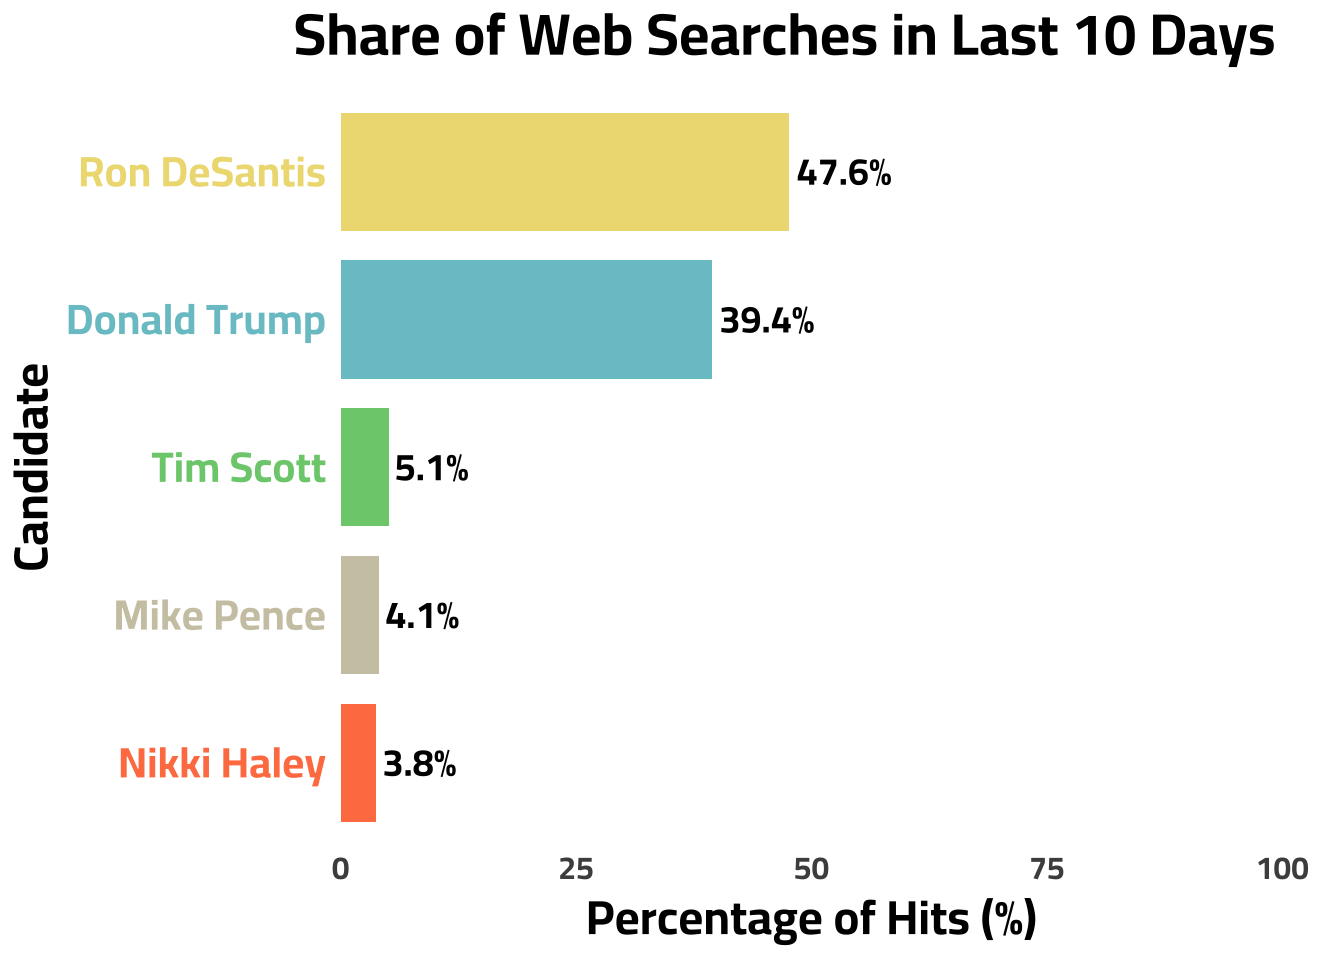
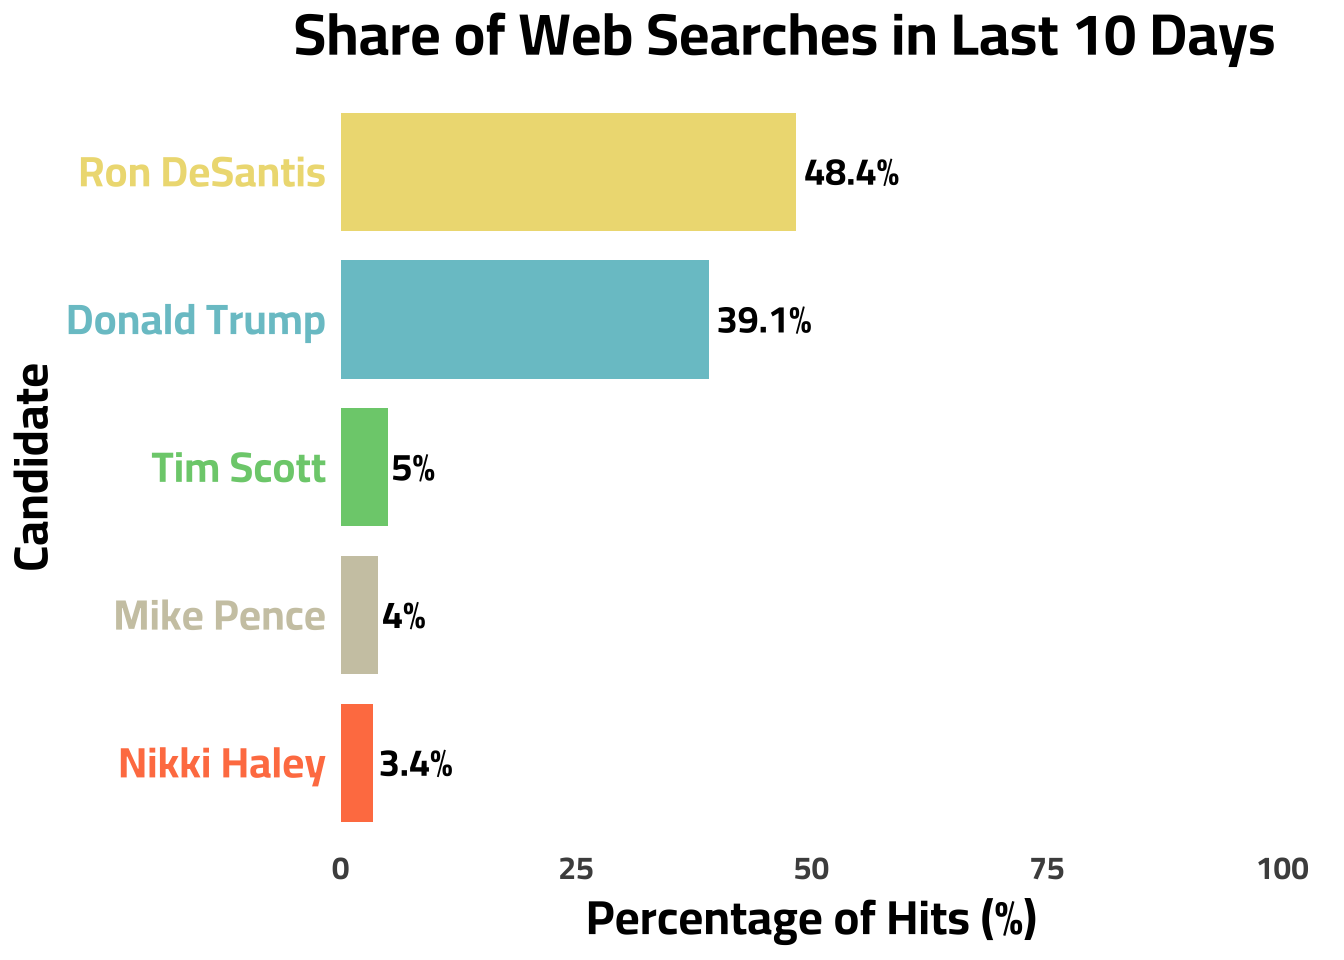
update cv 17.07.23-00:37:47

diff --git a/_site/posts/primary_stream/index.html b/_site/posts/primary_stream/index.html
@@ -181,7 +181,7 @@ Note
 </div>
 </div>
 <div class="callout-body-container callout-body">
-<p>This graph is updated on a daily basis to provide continuous context to the GOP Primary Election. This graph was last updated: 00:30:00 on 17 Jul 2023</p>
+<p>This graph is updated on a daily basis to provide continuous context to the GOP Primary Election. This graph was last updated: 00:37:28 on 17 Jul 2023</p>
 </div>
 </div>
 <div class="cell">
@@ -234,7 +234,7 @@ Note
 </div>
 </div>
 <div class="callout-body-container callout-body">
-<p>This graph is updated on a daily basis to provide continuous context to the GOP Primary Election. This graph was last updated: 00:30:05 on 17 Jul 2023</p>
+<p>This graph is updated on a daily basis to provide continuous context to the GOP Primary Election. This graph was last updated: 00:37:34 on 17 Jul 2023</p>
 </div>
 </div>
 <p>This graph is provided to give a barometer reading of a candidates <em>recent</em> popularity/news coverage.</p>
